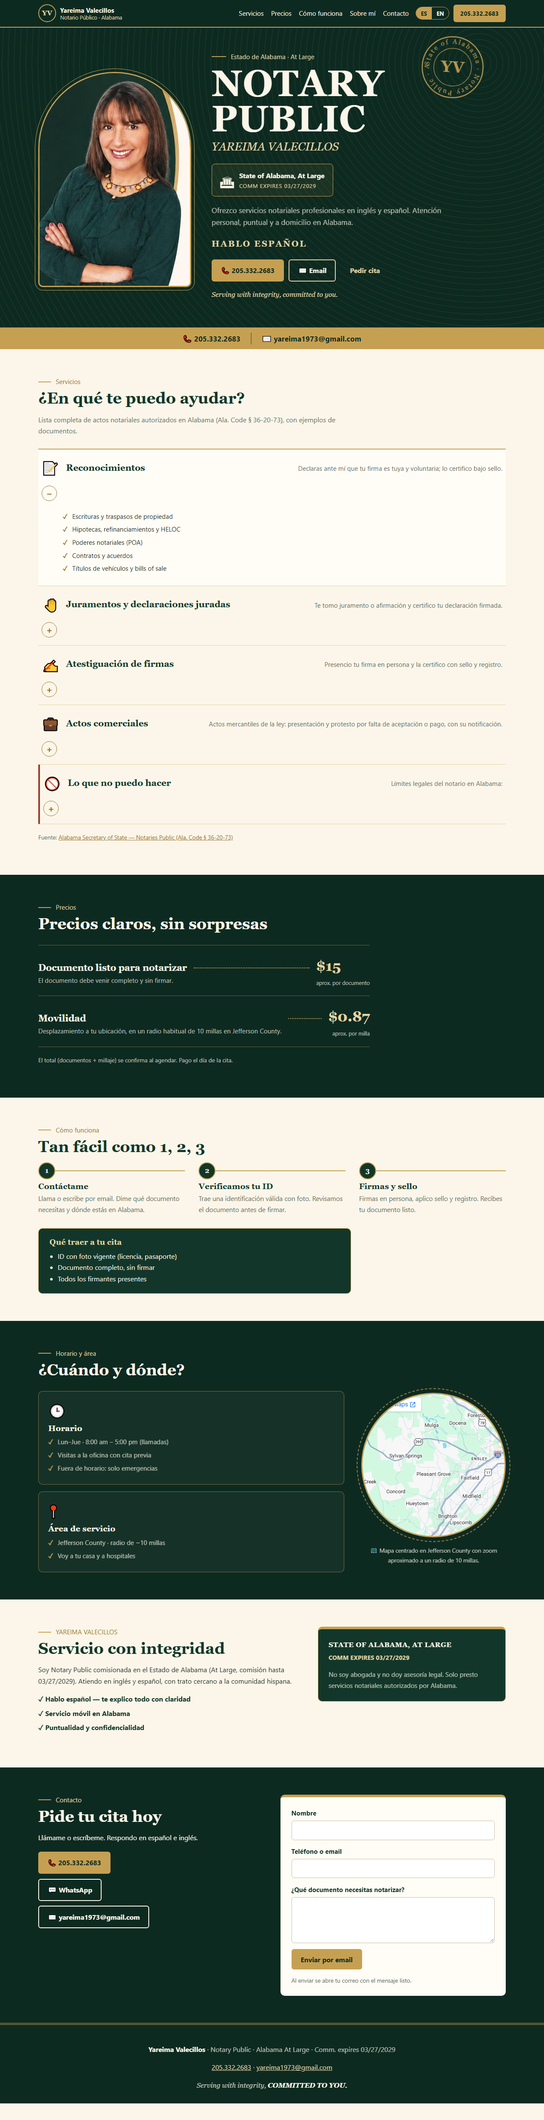
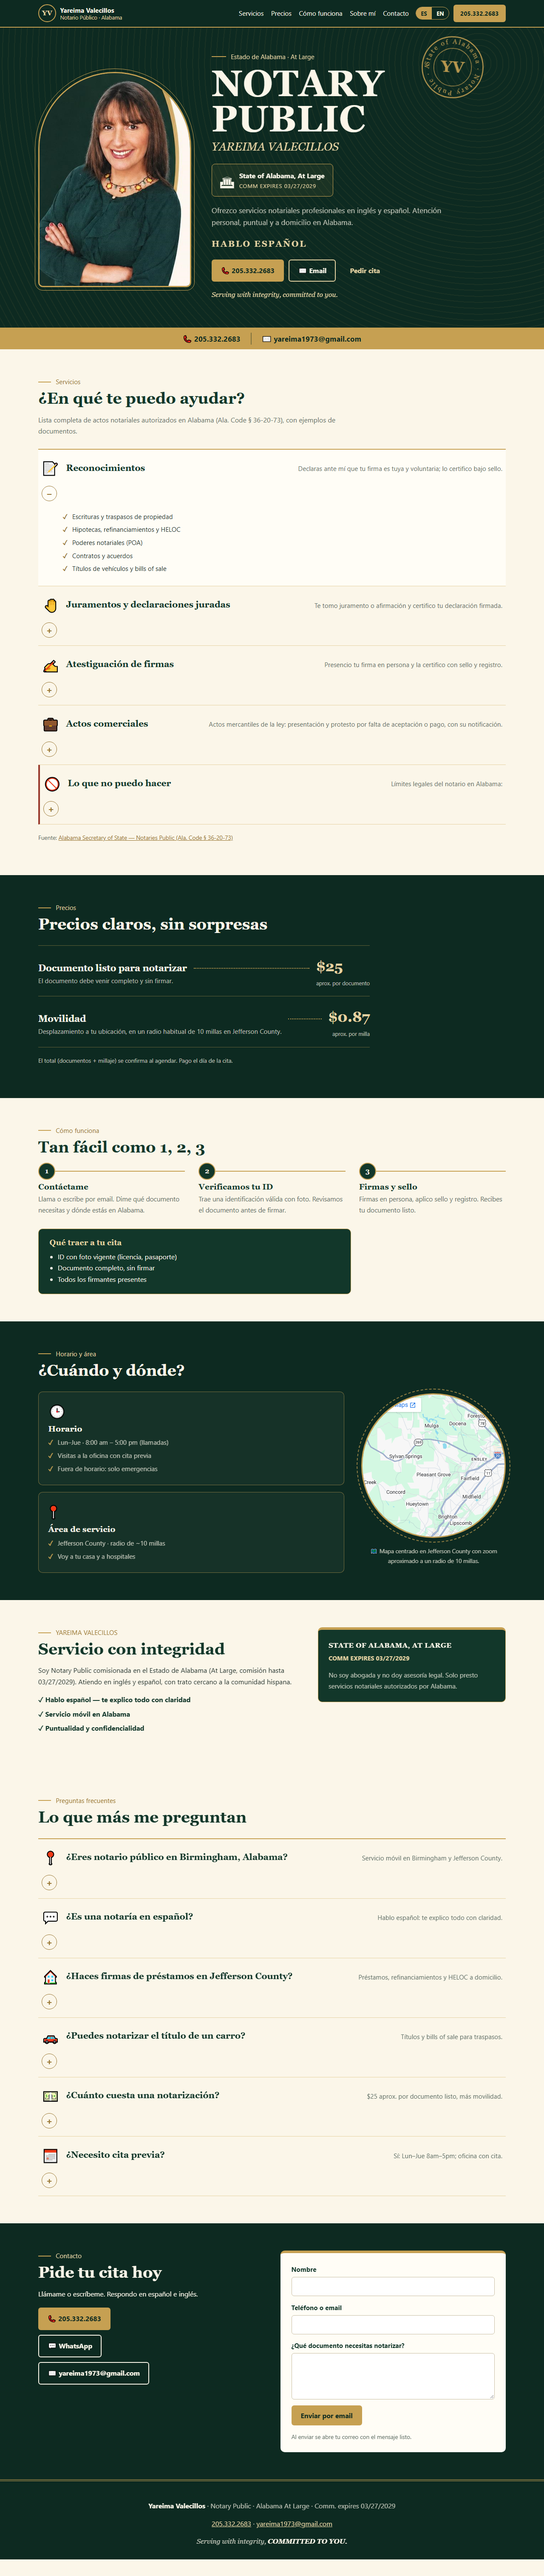
Notario en produccion, Conocimientos en (IA/OpenCode), NO SOY VIBE CODING

diff --git a/content.js b/content.js
@@ -12,7 +12,7 @@ window.portfolioData = {
   website: "",
 
   about:
-    "Programador Java Junior con proyectos terminados en escritorio (SQLite, PostgreSQL) y desarrollo web front-end (HTML/CSS/JS + Firebase). Me enfoco en código claro, pruebas básicas y documentación breve.",
+    "Programador Java Junior con proyectos terminados en escritorio (SQLite, PostgreSQL) y desarrollo web front-end (HTML/CSS/JS + Firebase), incluyendo una landing de cliente real en producción. Me enfoco en código claro, pruebas básicas y documentación breve. NO SOY VIBE CODING: escribo y entiendo cada línea de mi código.",
 
   tech: [
     { label: "Java", category: "Backend/frontend" },
@@ -114,9 +114,10 @@ window.portfolioData = {
       subtitle: "Landing ES/EN móvil",
       status: "Terminado",
       description:
-        "Landing bilingüe para notario móvil con acordeón de servicios, tarifas, botón WhatsApp y versión cliente/móvil. Cliente real.",
+        "Landing bilingüe para notario móvil con acordeón de servicios, tarifas, botón WhatsApp y versión cliente/móvil. Cliente real, EN PRODUCCIÓN con Cloudflare.",
       tech: ["HTML", "CSS", "JavaScript"],
       repoUrl: "https://github.com/angelvalecillos/notario-yare",
+      demoUrl: "https://yareimanotary.com/",
       repoUrl: "",
       demoUrl: "",
       imageUrl: "assets/notario.png",
@@ -143,7 +144,7 @@ window.portfolioData = {
   ],
 
   languages: ["Español (nativo)", "Inglés (B2)"],
-  learning: ["IA", "Firebase / despliegue web"],
+  learning: ["IA", "OpenCode", "Firebase / despliegue web"],
   certifications: ["OPERACIONES AUXILIARES DE MONTAJE Y MANTENIMIENTO DE SISTEMAS MICROINFORMÁTICOS IFCT0108 (370 horas)", "ECI Diploma (ver assets/eciDiploma.pdf)"],
   hobbies: ["Lectura técnica","Ciclismo"]
 };

diff --git a/script.js b/script.js
@@ -142,10 +142,11 @@
             : `<img class="project-media" alt="Imagen del proyecto ${p.title}" src="${p.imageUrl}" />`)
         : "";
 
+    const demoLabel = p.demoUrl && p.demoUrl.toLowerCase().endsWith(".pdf") ? "Manual.pdf" : "Ver sitio";
     const actions = `
       <div class="card-actions">
         ${p.repoUrl ? `<a class="btn-outline" href="${p.repoUrl}" target="_blank" rel="noopener">Código</a>` : ""}
-        ${p.demoUrl ? `<a class="btn" href="${p.demoUrl}" target="_blank" rel="noopener">Manual.pdf</a>` : ""}
+        ${p.demoUrl ? `<a class="btn" href="${p.demoUrl}" target="_blank" rel="noopener">${demoLabel}</a>` : ""}
       </div>
     `;
 

diff --git a/index.html b/index.html
@@ -70,7 +70,7 @@
             <ul id="languages" class="list"></ul>
           </div>
           <div>
-            <h3 class="extra-subtitle">Estoy aprendiendo</h3>
+            <h3 class="extra-subtitle">Conocimientos en:</h3>
             <ul id="learning" class="list"></ul>
           </div>
           <div>
